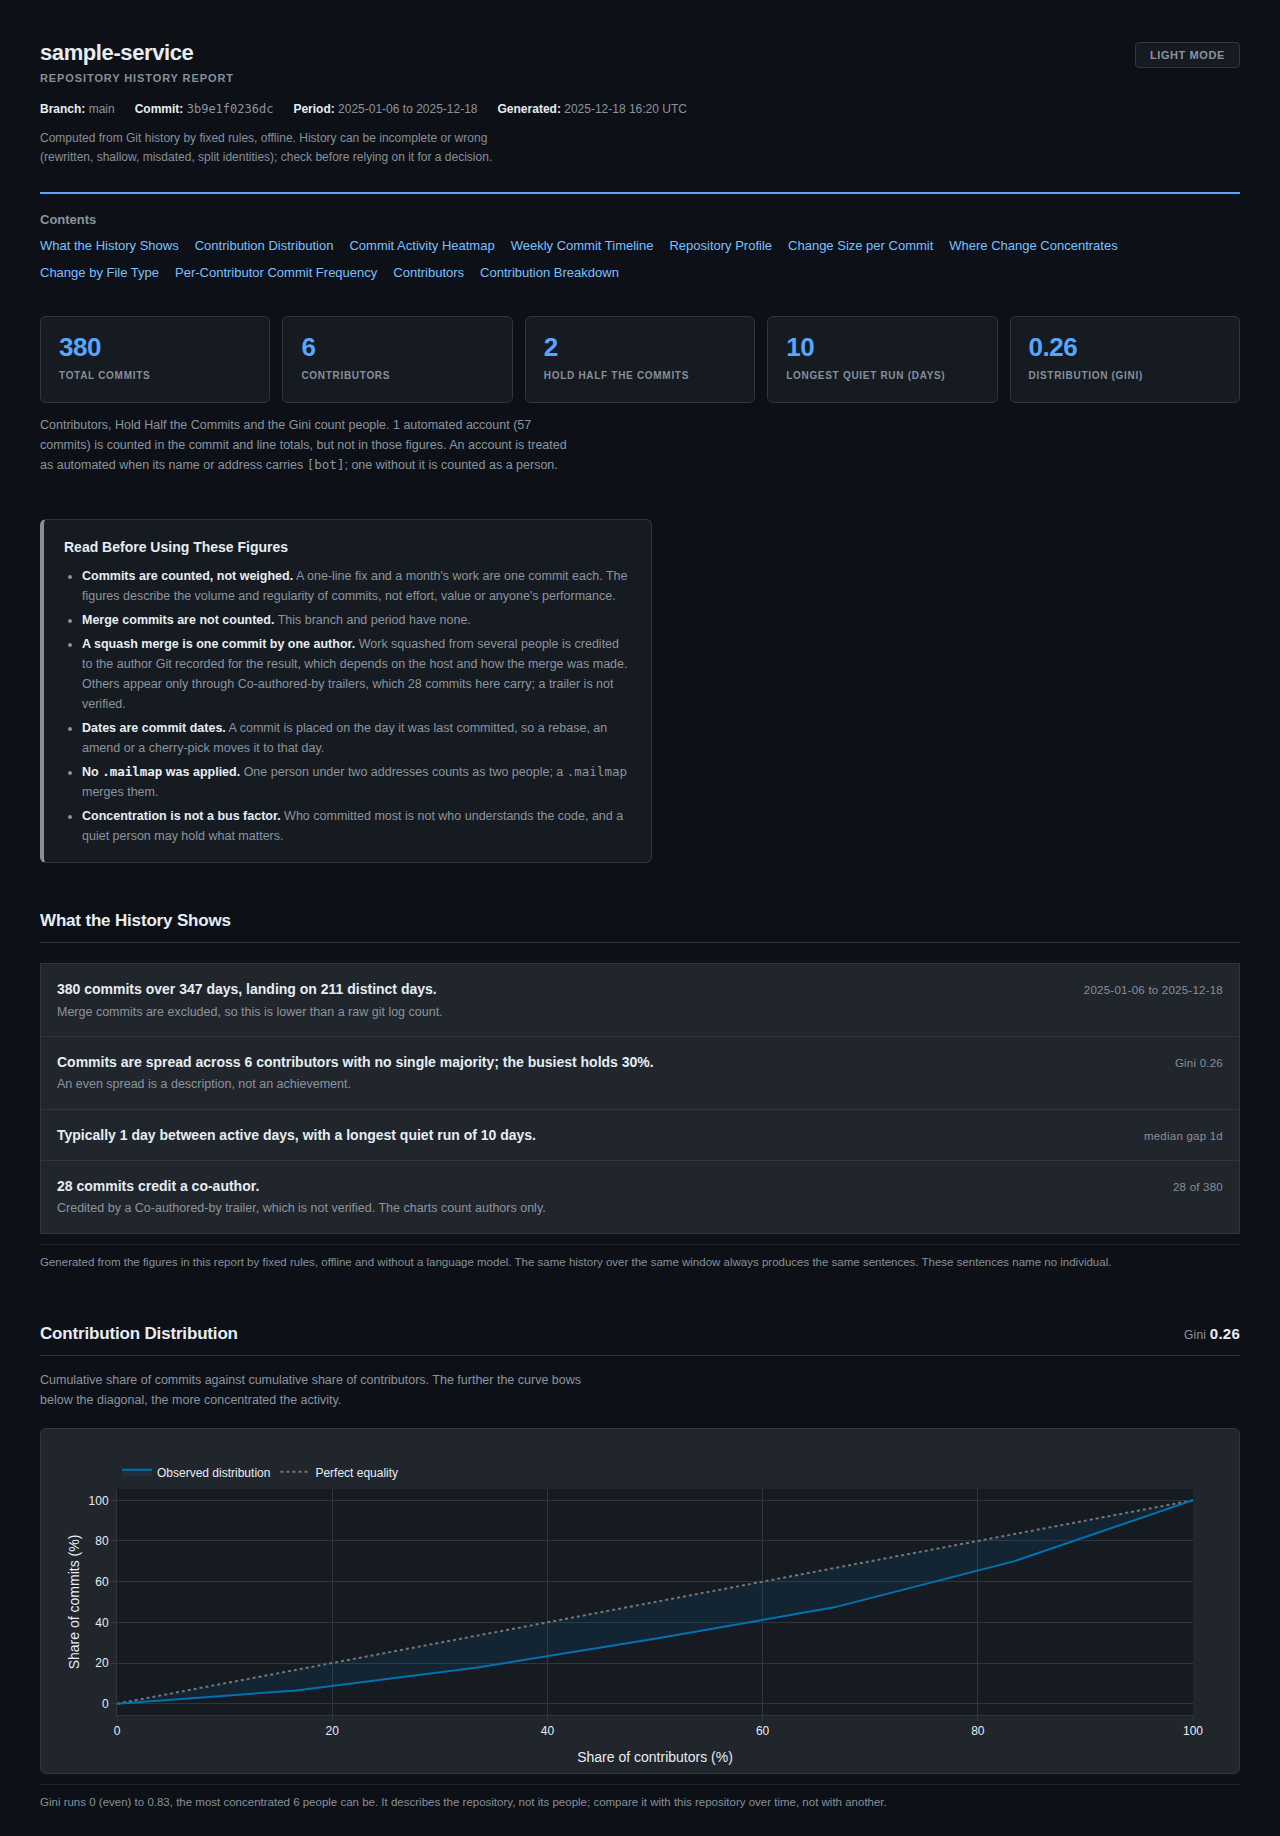
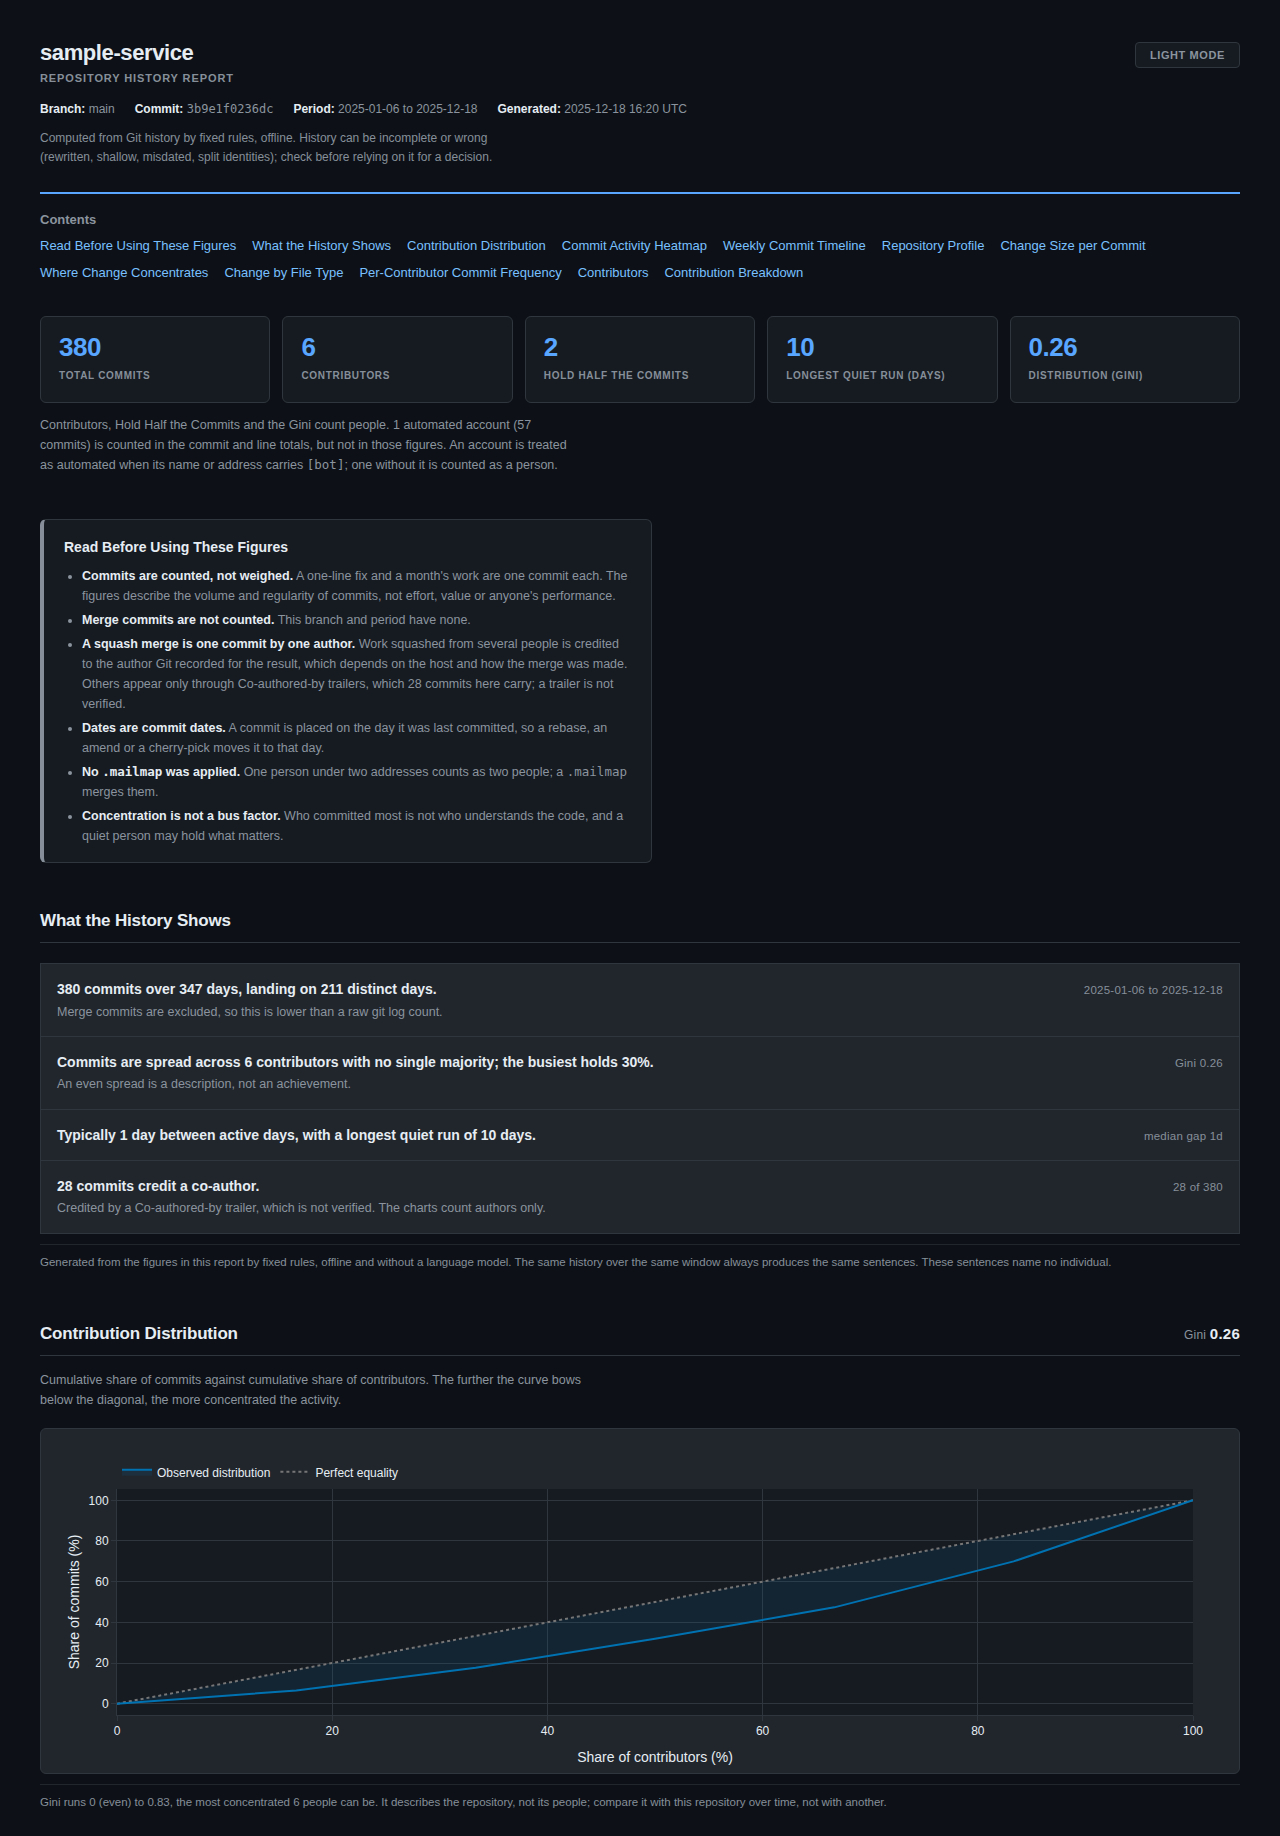
fix(report): the reader's paper, the caveats in the contents, two guards
- no @page size: a declared A4 took the paper choice from the print
  dialog; printed on Letter and A4 in Chromium, 6 numbered pages each
- the contents list starts with "Read Before Using These Figures"; it
  collected section headings only and skipped the caveats panel
- tests now hold that the page calls buildContents() on load and that the
  month labels reach the heatmap's axis; both mutations had survived
- margin-box grey held equal to the print palette's secondary text
  colour, the only colour that test allows
- nav labelled by its visible "Contents" (one announcement, not two);
  role="list" on the bulletless list; detached HEAD shows 12 characters
  of the commit, as the footer does
- CHANGELOG and USER_GUIDE: page numbers named as Chromium's, and rows
  kept on one sheet "where it fits"
- 8 new mutations, each failed its test; the earlier 13 still do

Changed region(s): [[0.0312, 0.1242, 0.875, 0.1552]]

diff --git a/tests/unit/adapters/test_report_document.py b/tests/unit/adapters/test_report_document.py
@@ -21,6 +21,7 @@ from pathlib import Path
 import pytest
 
 from tests.unit.adapters.test_report_layout import (  # noqa: F401
+    _function,
     _print_rule,
     _print_rules,
     rendered,
@@ -60,12 +61,30 @@ class TestTheContentsList:
     def test_it_is_hidden_until_the_script_fills_it(self, rendered: str) -> None:  # noqa: F811
         """Without JavaScript an empty list would show only the word "Contents"."""
         assert re.search(
-            r'<nav id="contents" class="report-contents" aria-label="Contents" hidden>', rendered
+            r'<nav id="contents" class="report-contents" aria-labelledby="contents-label" hidden>',
+            rendered,
         )
+        assert '<span id="contents-label" class="report-contents-label">Contents</span>' in rendered
 
     def test_paper_leaves_it_out(self, rendered: str) -> None:  # noqa: F811
         """Links cannot be followed on paper, and the list gives no page numbers."""
         assert "display: none" in _print_rule(rendered, ".report-contents")
+
+    def test_the_page_fills_it_when_it_loads(self, rendered: str) -> None:  # noqa: F811
+        """Calling the builder in a test proves nothing if the page never calls it."""
+        loaded = rendered.index("document.addEventListener('DOMContentLoaded'")
+        handler = _function(rendered[loaded:], "")
+        assert "buildContents();" in handler
+
+    def test_it_lists_the_caveats_panel(self, rendered: str) -> None:  # noqa: F811
+        """The panel exists because documentation does not travel with the file;
+        a contents list that skipped it led a reader straight past it."""
+        assert '<h2 id="caveats-title">' in rendered
+        builder = _function(rendered, "buildContents")
+        assert "document.querySelectorAll('#caveats-title, h2.section-title')" in builder
+
+    def test_it_keeps_list_semantics_without_bullets(self, rendered: str) -> None:  # noqa: F811
+        assert '<ol role="list"></ol>' in rendered
 
 
 def _build_contents(headings: list[dict[str, str]]) -> dict:
@@ -126,6 +145,24 @@ class TestPrintedPages:
 
         assert "@page" in rules
         assert 'content: "Page " counter(page) " of " counter(pages);' in rules
+
+    def test_the_reader_chooses_the_paper(self, rendered: str) -> None:  # noqa: F811
+        """A declared size takes A4 or Letter out of the print dialog's hands."""
+        page = re.search(r"@page \{(.*?)@bottom-left", _print_rules(rendered))
+        assert page
+        assert "size:" not in page.group(1)
+
+    def test_the_margin_text_is_the_secondary_text_colour(self, rendered: str) -> None:  # noqa: F811
+        """A page box cannot read the custom properties, so the grey is written out;
+        it must stay the print palette's secondary text colour, which the
+        contrast tests measure."""
+        rules = _print_rules(rendered)
+        secondary = re.search(r"--color-text-secondary: (#[0-9a-f]{6});", rules)
+        assert secondary
+        boxes = re.findall(r"@bottom-(?:left|right) \{([^{}]*)\}", rules)
+        assert len(boxes) == 2
+        for box in boxes:
+            assert re.findall(r"(?<![-\w])color: ([^;]+);", box) == [secondary.group(1)]
 
     @pytest.mark.parametrize("selector", ["table.profile tr", ".findings li", ".caveats"])
     def test_a_row_or_finding_is_not_split_across_sheets(

diff --git a/tests/unit/adapters/test_heatmap_window.py b/tests/unit/adapters/test_heatmap_window.py
@@ -113,7 +113,11 @@ def test_the_grid_is_not_padded_with_empty_columns() -> None:
     to fill the width, drawing empty weeks past the end of the window."""
     source = _TEMPLATE.read_text(encoding="utf-8")
 
-    assert re.search(r"xaxis:\s*\{ type: 'category', tickangle: 0, constrain: 'domain',", source)
+    assert re.search(
+        r"xaxis:\s*\{ type: 'category', tickangle: 0, constrain: 'domain',\s*"
+        r"tickvals: grid\.tickvals, ticktext: grid\.ticktext \}",
+        source,
+    ), "the month labels reach the chart's axis"
 
 
 @pytest.mark.unit

diff --git a/tests/unit/adapters/test_report_text.py b/tests/unit/adapters/test_report_text.py
@@ -102,7 +102,7 @@ class TestTheReportsOwnWords:
         )
         text = _render(data, tmp_path_factory)
 
-        assert "Branch:</strong> detached HEAD at 0123456" in text
+        assert "Branch:</strong> detached HEAD at <code>0123456789ab</code>" in text
 
 
 @pytest.mark.unit

diff --git a/CHANGELOG.md b/CHANGELOG.md
@@ -65,8 +65,9 @@ before release.
 - **In the report:** a "Read Before Using These Figures" panel on how the figures can mislead, and a
   "Third-party licences" section. The header names the commit the figures describe, a contents
   list links each section, and the footer gives the Reveille version, when the report was
-  generated and from which commit. Printed, each A4 sheet is numbered "Page N of M", and a table
-  row, a finding or the caveats panel is not split across two sheets.
+  generated and from which commit. Printed from a Chromium-based browser, each sheet is numbered
+  "Page N of M", and a table row, a finding or the caveats panel is kept on one sheet where it
+  fits.
 - **In JSON:** the merge commits left out (`merge_commits_excluded`); `reveille_version` in the
   `summary`, `state`, `brief`, `who-changed` and `repos` documents; `analysed_commit` in
   `who-changed`; `automated` for each contributor in `generate` JSON and CSV (CSV's last column),

diff --git a/docs/USER_GUIDE.md b/docs/USER_GUIDE.md
@@ -642,7 +642,8 @@ plotly.js cartesian bundle, pinned) and its third-party licences, which the repo
 collapsed section after its footer: 1.69 MB for a one-commit repository and 1.70 MB for this one
 (measured 2026-10-18; 0.9.0's reports were 4.9 MB). Its header names the branch, the commit and
 the period the figures describe, and its footer the Reveille version that made it and when, so a
-report passed on can be checked against the repository. Printed, it fits A4 with numbered pages.
+report passed on can be checked against the repository. Printed from a Chromium-based browser,
+each sheet is numbered, on the paper size the print dialog is set to.
 
 ---
 
